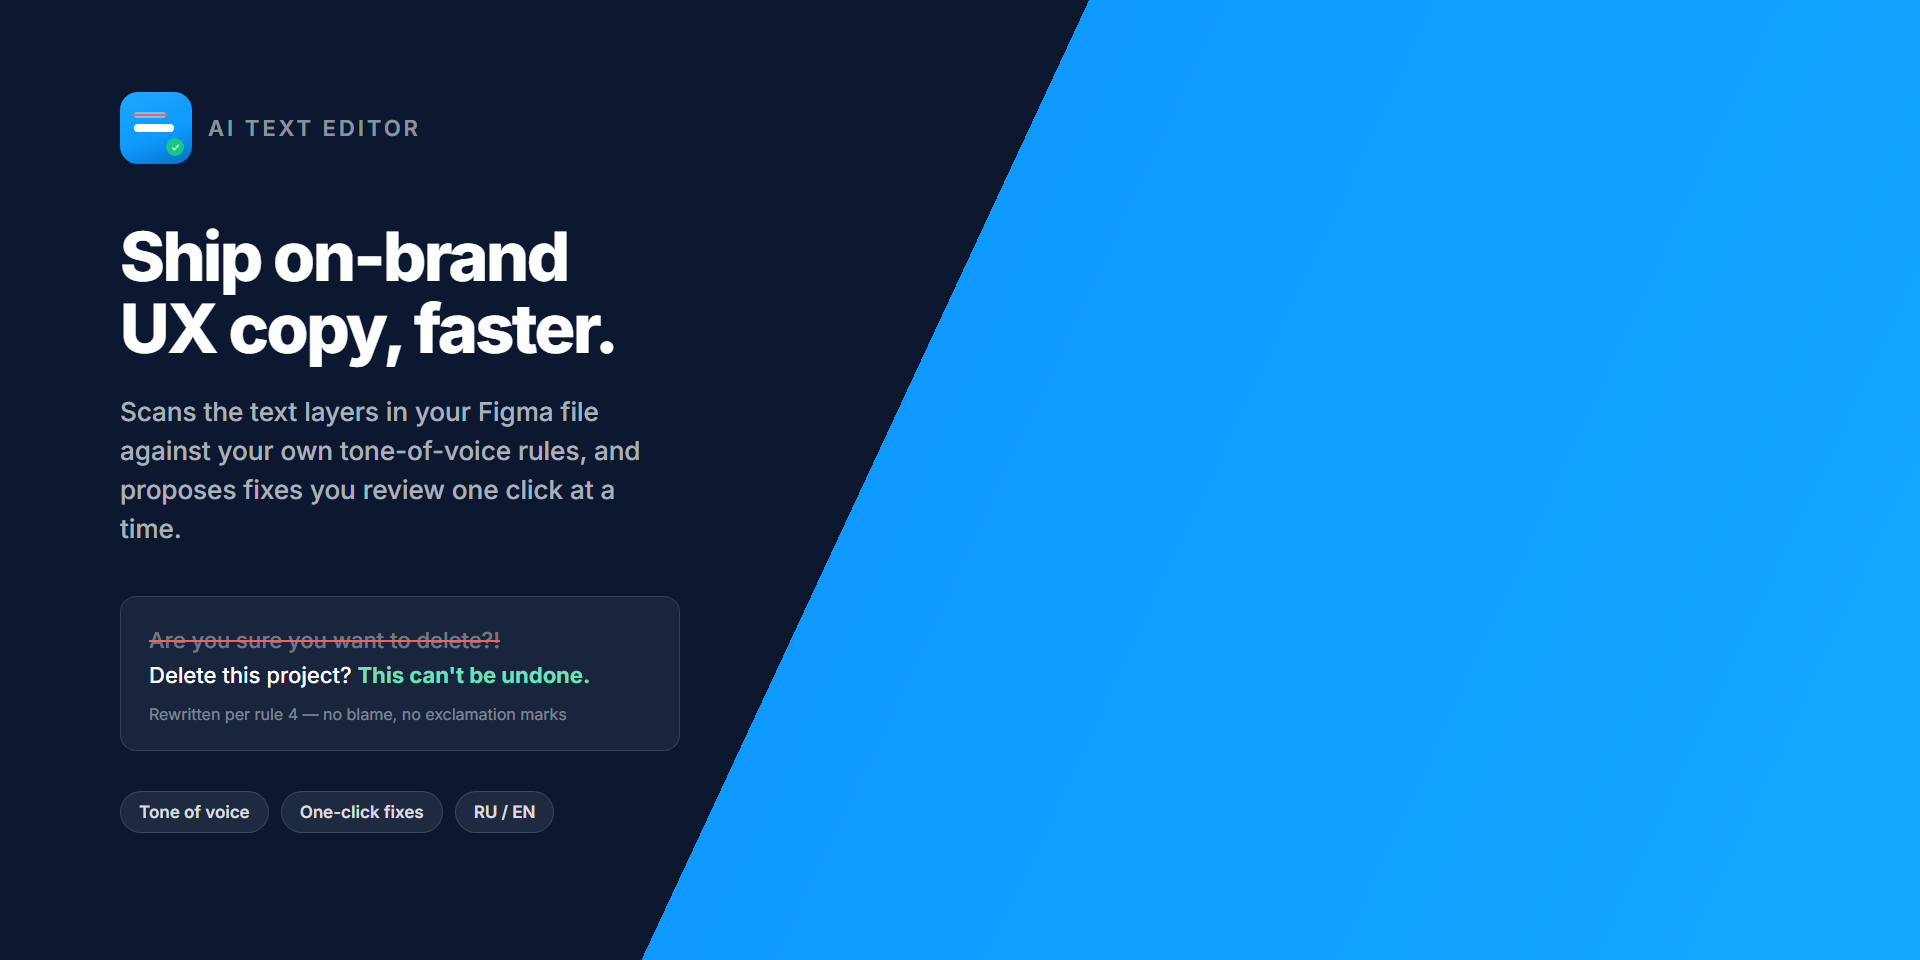
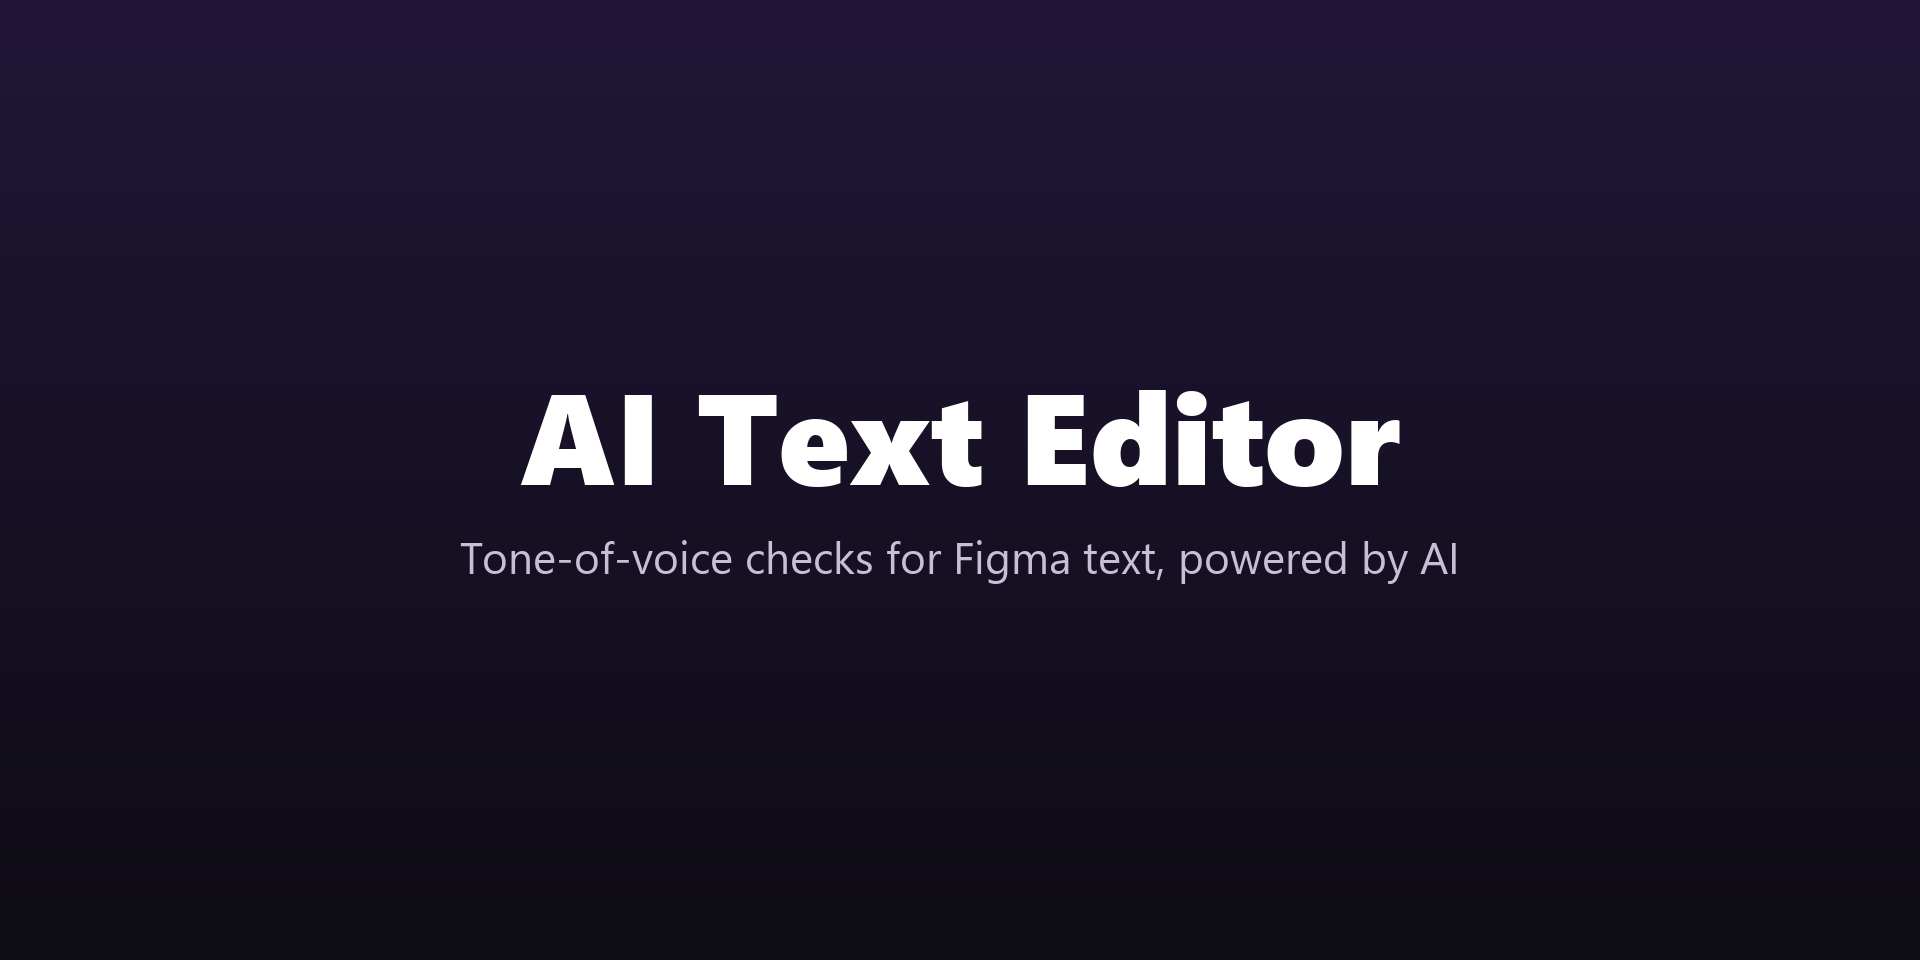
Prepare Figma Community release: plugin ID, English default, store copy
Set the published plugin ID and documentAccess: dynamic-page in the
manifest, switch the default UI language to English, and add English
store tagline/description plus a new cover and results screenshot.
README and PUBLISHING describe .md rule links, rule priorities and the
file link used in summaries.

diff --git a/src/ui/App.tsx b/src/ui/App.tsx
@@ -17,7 +17,7 @@ export default function App() {
   const [rules, setRules] = useState('')
   const [apiKey, setApiKey] = useState('')
   const [fileUrl, setFileUrl] = useState('')
-  const [lang, setLang] = useState<Lang>('ru')
+  const [lang, setLang] = useState<Lang>('en')
   const [scanState, setScanState] = useState<ScanState>('idle')
   const [scope, setScope] = useState<ScanScope>('page')
   const [onlyVisible, setOnlyVisible] = useState(true)

diff --git a/src/plugin/main.ts b/src/plugin/main.ts
@@ -81,7 +81,7 @@ figma.ui.onmessage = async (msg: UIMessage) => {
       rules: rules ?? '',
       apiKey: apiKey ?? '',
       fileUrl: fileUrl ?? (figma.fileKey ? `https://www.figma.com/design/${figma.fileKey}` : ''),
-      lang: lang === 'en' ? 'en' : 'ru',
+      lang: lang === 'ru' ? 'ru' : 'en',
       scope: scope === 'selection' ? 'selection' : 'page',
       onlyVisible: onlyVisible ?? true,
     })

diff --git a/store/PUBLISHING.md b/store/PUBLISHING.md
@@ -4,7 +4,7 @@
 
 ## Готово в этом репозитории
 
-- [x] `manifest.json` — актуальный, без секретов, `networkAccess.allowedDomains` указывает ровно один домен (`api.deepseek.com`).
+- [x] `manifest.json` — актуальный, без секретов. `networkAccess.allowedDomains` указывает `api.deepseek.com` (обязательный домен для проверки текстов) и `*` (пользователь сам указывает ссылки на `.md`-файлы с правилами — домен заранее неизвестен) с заполненным полем `reasoning`, которое требует Figma для wildcard-доступа.
 - [x] `store/icon.png` — иконка плагина 128×128 (можно заменить своей — просто положить PNG 128×128 в это же место).
 - [x] `store/icon-512.png` — версия иконки 512×512 про запас (если понадобится где-то ещё, кроме формы публикации).
 - [x] `store/cover.png` — обложка для карточки Community, 1920×960, текст на английском (Community-листинг обычно смотрят международно).
@@ -33,26 +33,50 @@ AI Text Editor
 Проверяет UX-тексты на странице по вашим правилам tone of voice и предлагает правки с помощью ИИ.
 ```
 
+**Tagline (English, ≤100 chars):**
+```
+AI-powered checks for your UX text against your tone-of-voice rules, right inside Figma.
+```
+
 **Полное описание:**
 ```
 AI Text Editor проверяет текстовые слои в файле Figma на соответствие вашим правилам tone of voice и стиля — и предлагает точечные исправления, которые можно принять или пропустить по одному.
 
 Как это работает:
-1. Опишите правила написания текстов во вкладке «Настройки» — обращение к пользователю, пунктуация, запрещённые слова, стиль сообщений об ошибках и т.д.
+1. Во вкладке «Настройки» укажите правила написания текстов — просто текстом, ссылкой на .md-файл с правилами (например, в GitHub) или тем и другим вперемешку, по одному правилу/ссылке в строке. Если источники правил могут противоречить друг другу, пометьте нужный как «Приоритетное правило:» — это учитывается при проверке.
 2. Укажите свой API-ключ DeepSeek (получить можно на platform.deepseek.com).
 3. Запустите проверку — на всей текущей странице или только в выделении.
 4. Для каждого найденного нарушения плагин покажет diff «было → стало» и причину со ссылкой на конкретное правило.
 5. Принимайте, пропускайте или отменяйте правки по отдельности — или нажмите «Принять все».
-6. Во вкладке «Саммари» — готовый список принятых изменений со ссылками на нужные экраны, чтобы поделиться с командой.
+6. Во вкладке «Саммари» — готовый список принятых изменений со ссылками на нужные экраны в файле Figma (укажите ссылку на текущий файл в «Настройках», чтобы ссылки в саммари были кликабельны), чтобы поделиться с командой.
 
 Интерфейс доступен на русском и английском — язык переключается там же, в «Настройках».
 
-Важно об API-ключе и данных: содержимое проверяемых текстовых слоёв и ваш API-ключ отправляются в DeepSeek API (api.deepseek.com) для анализа — это единственный внешний сервис, с которым взаимодействует плагин. Ключ хранится только локально в файле (через figma.clientStorage) и не передаётся никуда, кроме DeepSeek.
+Важно об API-ключе и данных: содержимое проверяемых текстовых слоёв и ваш API-ключ отправляются в DeepSeek API (api.deepseek.com) для анализа. Если вы указали в правилах ссылку на .md-файл, плагин также скачивает его содержимое с указанного вами адреса (например, raw.githubusercontent.com). Ключ и правила хранятся только локально в файле через figma.clientStorage.
+```
+
+**Full description (English):**
+```
+AI Text Editor checks text layers in your Figma file against your tone-of-voice and style rules — and suggests targeted fixes you can accept or skip one by one.
+
+How it works:
+1. In the Settings tab, add your writing rules — as plain text, a link to a .md file (e.g. in GitHub), or a mix of both, one rule/link per line. If different sources might conflict, mark the one that should win with "Priority rule:" — this is taken into account during the check.
+2. Add your own DeepSeek API key (get one at platform.deepseek.com).
+3. Run a check — across the whole current page or just your selection.
+4. For every issue found, the plugin shows a before → after diff and a reason referencing the specific rule.
+5. Accept, skip, or undo each suggestion individually — or hit "Accept all".
+6. The Summary tab gives you a ready-to-share list of accepted changes with clickable links to the exact frames in your Figma file (set the current file's link in Settings so summary links work).
+
+The interface is available in Russian and English — switch it in Settings, which also changes the language of the AI's replies.
+
+About your API key and data: the text of the layers you check, plus your API key, are sent to the DeepSeek API (api.deepseek.com) for analysis. If you add a link to a .md file in your rules, the plugin also fetches its content from the address you provided (e.g. raw.githubusercontent.com). Your key and rules are stored locally in the file only, via figma.clientStorage.
 ```
 
 **Обоснование сетевого доступа** (Figma спросит, зачем нужен `networkAccess`):
 ```
-Плагин отправляет текст проверяемых слоёв в DeepSeek API (api.deepseek.com), чтобы получить предложения по исправлению текста согласно правилам tone of voice, заданным пользователем. Используется личный API-ключ пользователя, который он указывает в настройках плагина.
+Плагин отправляет текст проверяемых слоёв в DeepSeek API (api.deepseek.com), чтобы получить предложения по исправлению текста согласно правилам tone of voice, заданным пользователем — используется личный API-ключ пользователя, указанный в настройках плагина.
+
+Дополнительно пользователь может задать правила не только текстом, но и ссылкой на .md-файл (например, в корпоративном GitHub-репозитории с гайдлайнами). Так как адрес такого файла заранее неизвестен и полностью определяется пользователем, для его скачивания используется wildcard-доступ (`*`) в дополнение к api.deepseek.com. Запрос уходит только на URL, который сам пользователь вписал в поле правил.
 ```
 
 **Категория:** Content Design / Productivity (выбрать наиболее подходящую из списка, который предложит Figma — актуальный набор категорий меняется, сверьтесь прямо в форме).

diff --git a/README.md b/README.md
@@ -5,12 +5,13 @@
 ## Возможности
 
 - Сканирование текстовых слоёв — на всей текущей странице или только в выделении, с опцией учитывать только видимые элементы.
-- Проверка через DeepSeek API по правилам, которые вы описываете в свободной форме во вкладке «Настройки».
-- Постраничный diff для каждой найденной правки, с указанием номера нарушенного правила.
+- Проверка через DeepSeek API по правилам, которые вы описываете во вкладке «Настройки» — текстом, ссылкой на `.md`-файл (например, в GitHub — ссылки вида `github.com/.../blob/...` автоматически преобразуются в raw-ссылки) или тем и другим вперемешку, по одному правилу/ссылке в строке.
+- Если источники правил могут противоречить друг другу, можно явно пометить нужный как «Приоритетное правило:» / «Вторичное правило:» — это учитывается при проверке.
+- Diff для каждой найденной правки, с причиной и указанием источника нарушенного правила.
 - Принять / пропустить / отменить — для каждой правки по отдельности, и «Принять все» одной кнопкой.
-- Вкладка «Саммари» — готовый текст со списком принятых правок и ссылками на нужный экран (`?node-id=...`) для вставки в адресную строку уже открытого файла Figma.
+- Вкладка «Саммари» — готовый текст со списком принятых правок и кликабельными ссылками на нужный экран в текущем файле Figma (ссылка на файл указывается в «Настройках» и запоминается отдельно для каждого файла).
 - Интерфейс на русском и английском — переключается во вкладке «Настройки», меняет и язык ответов ИИ.
-- Настройки (правила, API-ключ, язык, область/видимость сканирования) сохраняются между запусками плагина.
+- Настройки (правила, API-ключ, ссылка на файл, язык, область/видимость сканирования) сохраняются между запусками плагина.
 
 ## Разработка
 
@@ -33,7 +34,7 @@ npm run lint     # oxlint
 
 ## Приватность и сеть
 
-Плагину для проверки текстов нужен собственный API-ключ DeepSeek (вводится пользователем во вкладке «Настройки» и хранится только локально через `figma.clientStorage`, никуда, кроме `api.deepseek.com`, не отправляется). Список разрешённых доменов задан в `manifest.json` → `networkAccess.allowedDomains`.
+Плагину для проверки текстов нужен собственный API-ключ DeepSeek (вводится пользователем во вкладке «Настройки» и хранится только локально через `figma.clientStorage`, никуда, кроме `api.deepseek.com`, не отправляется). Если в правилах указана ссылка на `.md`-файл, плагин также скачивает её содержимое с указанного пользователем адреса — поэтому в `manifest.json` → `networkAccess.allowedDomains` кроме `api.deepseek.com` разрешён wildcard-домен (`*`, с обязательным полем `reasoning`), так как адрес файла с правилами заранее неизвестен и полностью определяется пользователем.
 
 ## Публикация в Figma Community
 
